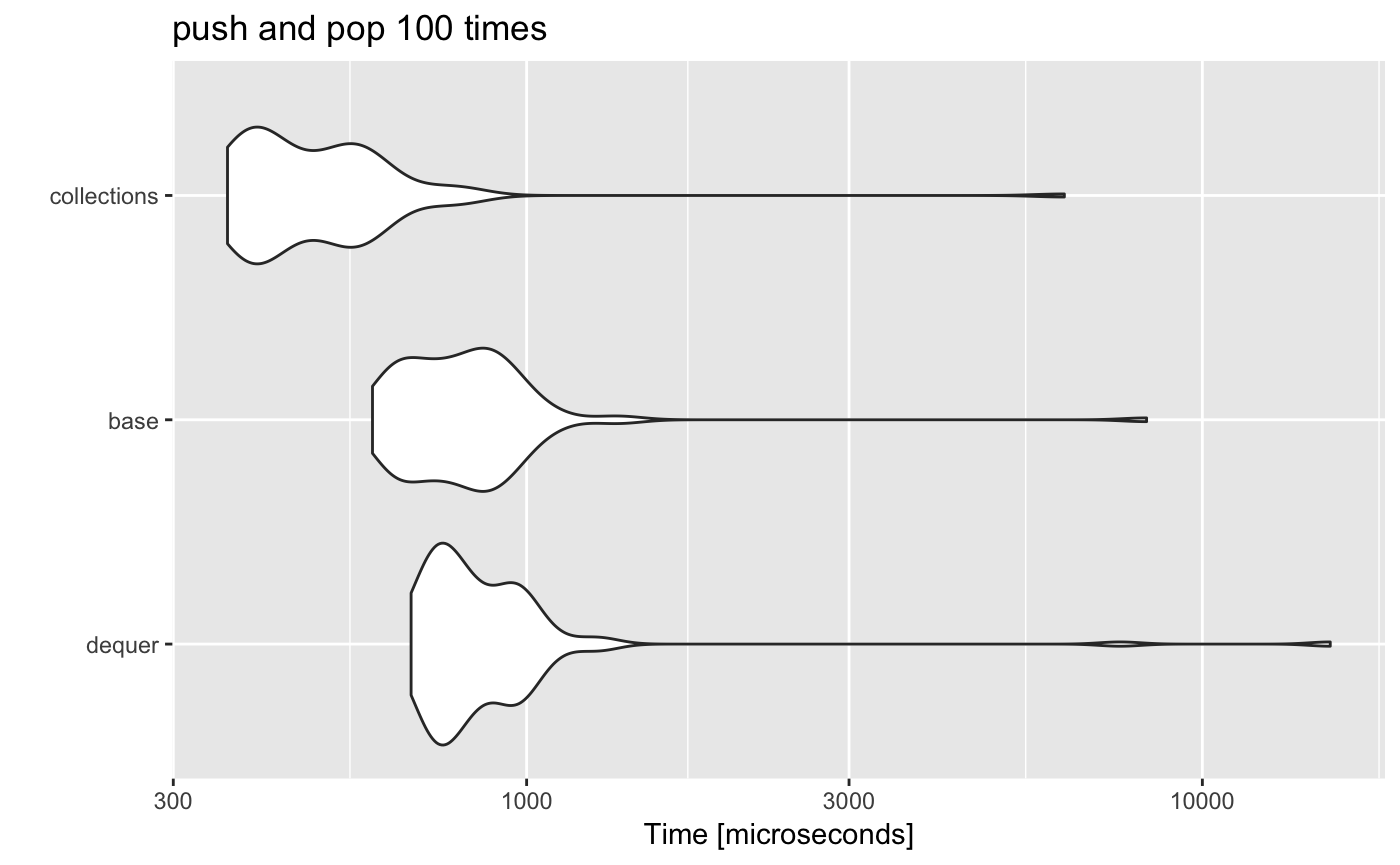
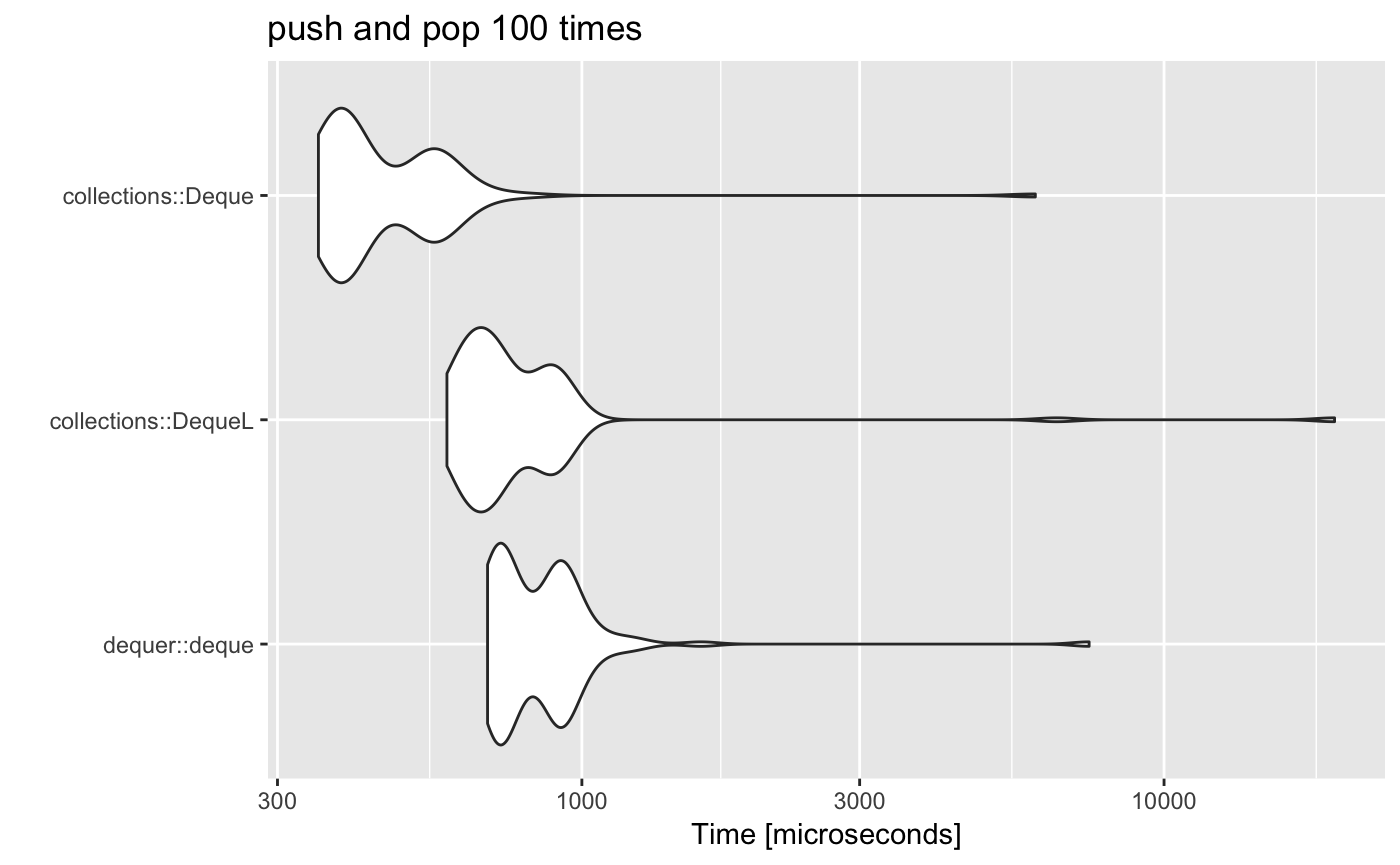
upgrade benchmark

diff --git a/docs/articles/benchmark.html b/docs/articles/benchmark.html
@@ -97,7 +97,6 @@
 <a href="https://CRAN.R-project.org/package=hashmap">hashmap</a> 0.2.2</li>
 <li>
 <a href="https://CRAN.R-project.org/package=fastmap">fastmap</a> 1.0.0</li>
-<li>base: R native methods implemented by collections</li>
 </ul>
 <div id="queue" class="section level2">
 <h2 class="hasAnchor">
